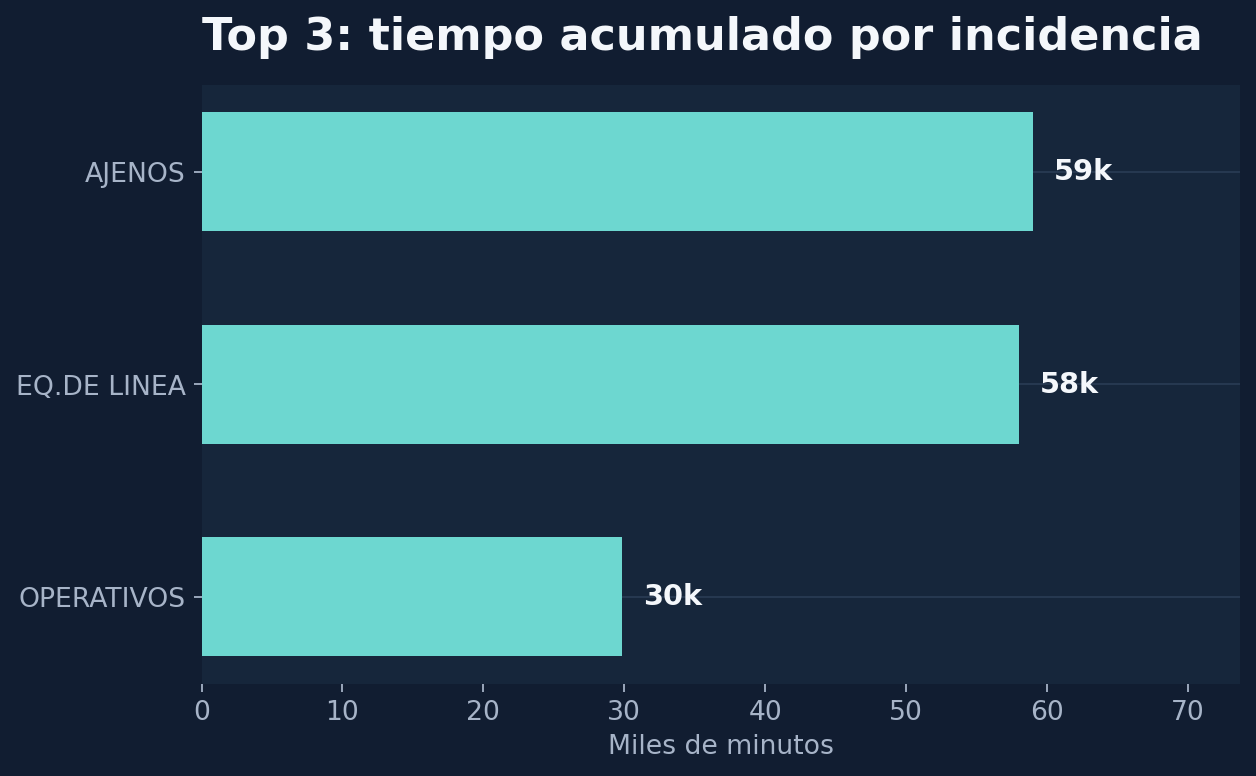
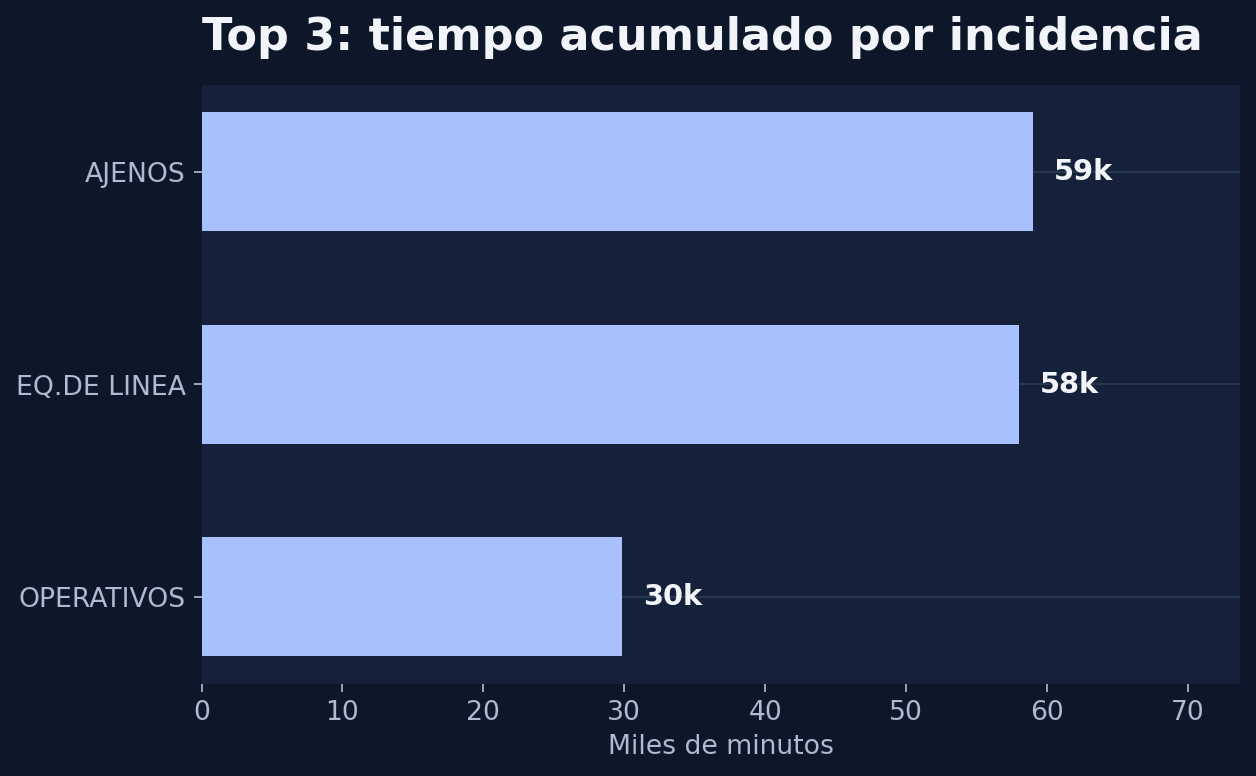
Ordena archivo académico y unifica paleta tinta

Changed region(s): [[0.1553, 0.1237, 0.8384, 0.3093], [0.1553, 0.4021, 0.8384, 0.5876], [0.1553, 0.6804, 0.4968, 0.866]]

diff --git a/Practicas/index.html b/Practicas/index.html
@@ -28,12 +28,8 @@
     .intro { display: grid; grid-template-columns: minmax(180px, .43fr) minmax(0, 1fr); gap: 2rem; padding: 32px 0 50px; }
     .intro h2 { margin: 0; font-size: 1.25rem; line-height: 1; }
     .intro p { max-width: 60ch; margin: 0; color: var(--muted); font-size: .95rem; }
-    .gallery { display: grid; grid-template-columns: repeat(12, minmax(0, 1fr)); column-gap: clamp(1.5rem, 3vw, 3.5rem); row-gap: 74px; }
+    .gallery { display: grid; grid-template-columns: repeat(2, minmax(0, 1fr)); gap: clamp(3rem, 5vw, 4.8rem) clamp(1.5rem, 3vw, 3.5rem); }
     .case { min-width: 0; }
-    .case:nth-child(1), .case:nth-child(4) { grid-column: span 7; }
-    .case:nth-child(2), .case:nth-child(3) { grid-column: span 5; }
-    .case:nth-child(2) { padding-top: 64px; }
-    .case:nth-child(4) { padding-top: 26px; }
     .preview-link { display: block; overflow: hidden; border: 1px solid rgba(169, 192, 255, .22); background: #0b1425; aspect-ratio: 1256 / 776; box-shadow: 0 18px 42px rgba(2, 8, 23, .16); }
     .preview-link:hover { border-color: rgba(200, 193, 255, .62); }
     .preview-link:focus-visible { outline: 2px solid var(--accent); outline-offset: 5px; }
@@ -44,8 +40,8 @@
     .case p { max-width: 51ch; margin: 0; color: var(--muted); font-size: .91rem; }
     .case-meta { margin-top: .75rem; color: #8999bc; font-size: .66rem; letter-spacing: .1em; }
     .footnote { max-width: 62ch; margin: 88px 0 0; border-top: 1px solid var(--line); padding-top: 1.2rem; color: var(--muted); font-family: "Newsreader", Georgia, serif; font-size: 1.05rem; font-style: italic; }
-    @media (max-width: 860px) { .hero { grid-template-columns: 1fr; gap: 1.6rem; padding: 70px 0 56px; } .hero-lead { max-width: 48ch; } .intro { grid-template-columns: 1fr; gap: .8rem; } .gallery { row-gap: 52px; } .case:nth-child(n) { grid-column: span 6; padding-top: 0; } }
-    @media (max-width: 600px) { .wrap { width: min(calc(100% - 32px), var(--wrap)); padding-top: 24px; padding-bottom: 62px; } .hero { padding: 58px 0 46px; } h1 { max-width: 11ch; font-size: clamp(2.8rem, 14vw, 4.05rem); } .hero-lead { border-left: 0; padding-left: 0; font-size: .98rem; } .intro { padding: 25px 0 38px; } .gallery { display: grid; grid-template-columns: 1fr; gap: 42px; } .case:nth-child(n) { grid-column: auto; } .case-copy { grid-template-columns: 2.45rem minmax(0, 1fr); gap: .72rem; padding-top: .9rem; } .case h3 { font-size: 1.75rem; } .case p { font-size: .88rem; } .footnote { margin-top: 62px; font-size: 1rem; } }
+    @media (max-width: 860px) { .hero { grid-template-columns: 1fr; gap: 1.6rem; padding: 70px 0 56px; } .hero-lead { max-width: 48ch; } .intro { grid-template-columns: 1fr; gap: .8rem; } .gallery { gap: 52px 1.5rem; } }
+    @media (max-width: 600px) { .wrap { width: min(calc(100% - 32px), var(--wrap)); padding-top: 24px; padding-bottom: 62px; } .hero { padding: 58px 0 46px; } h1 { max-width: 11ch; font-size: clamp(2.8rem, 14vw, 4.05rem); } .hero-lead { border-left: 0; padding-left: 0; font-size: .98rem; } .intro { padding: 25px 0 38px; } .gallery { grid-template-columns: 1fr; gap: 42px; } .case-copy { grid-template-columns: 2.45rem minmax(0, 1fr); gap: .72rem; padding-top: .9rem; } .case h3 { font-size: 1.75rem; } .case p { font-size: .88rem; } .footnote { margin-top: 62px; font-size: 1rem; } }
   </style>
 </head>
 <body>
